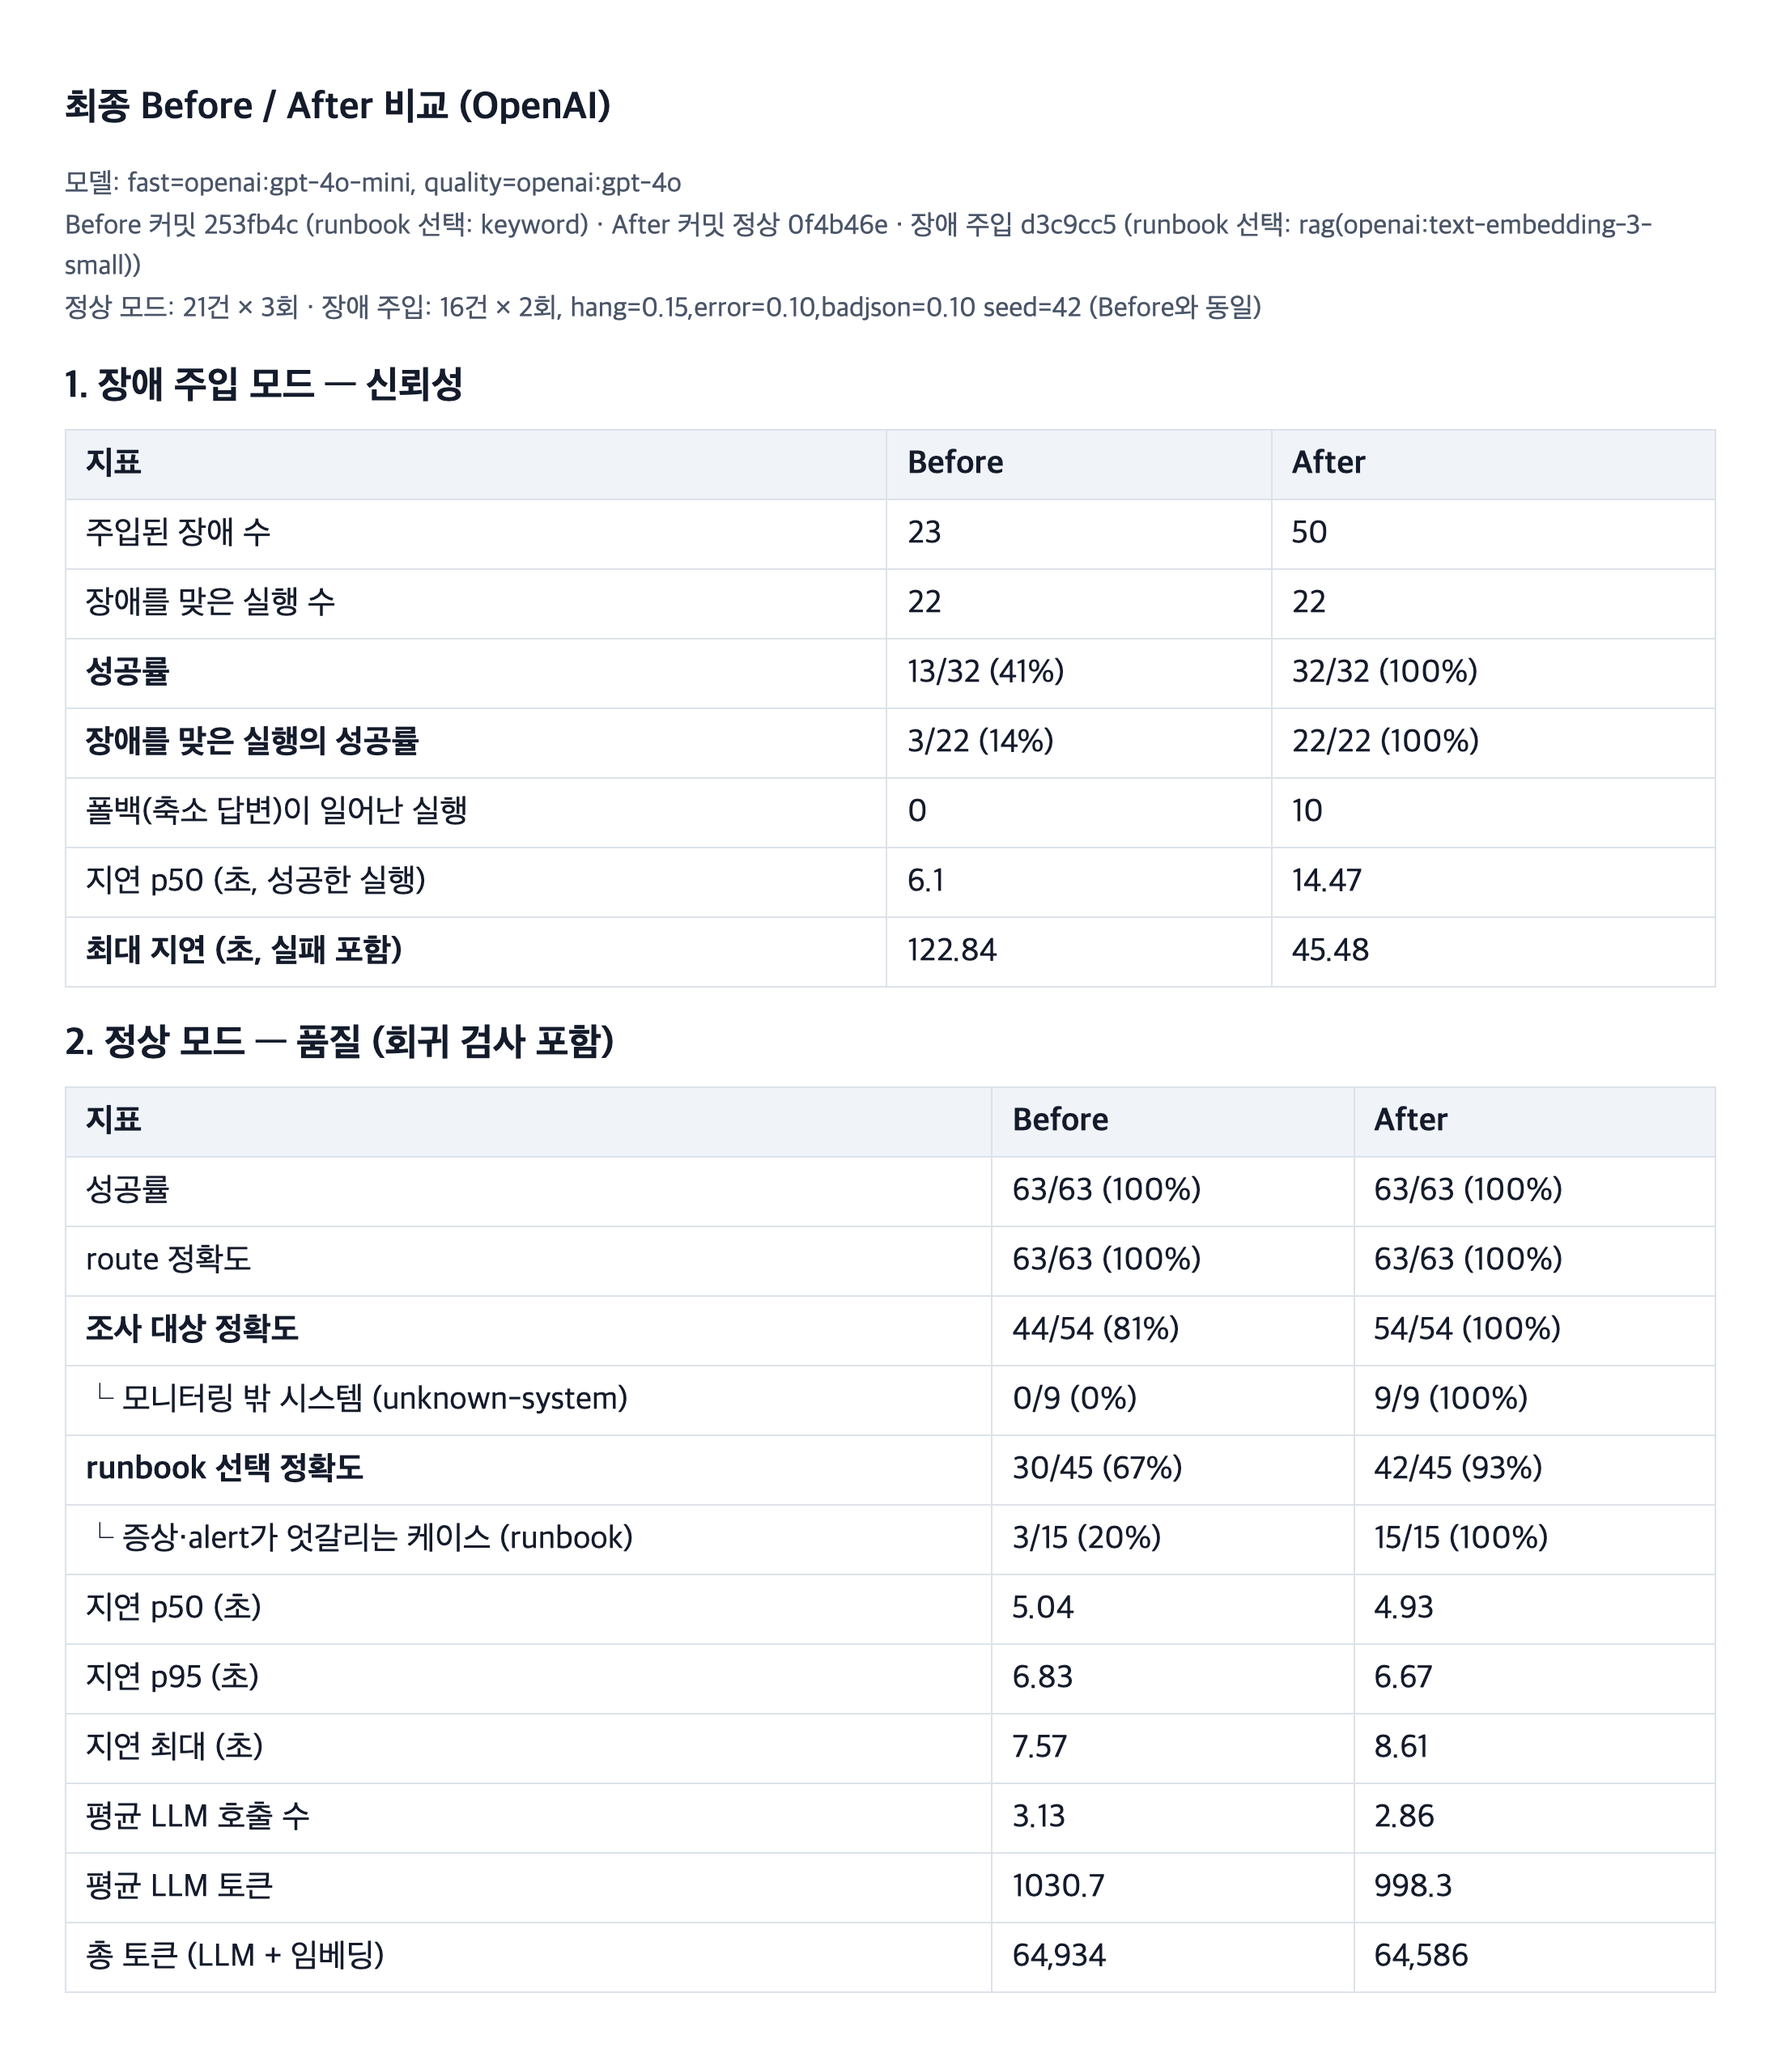
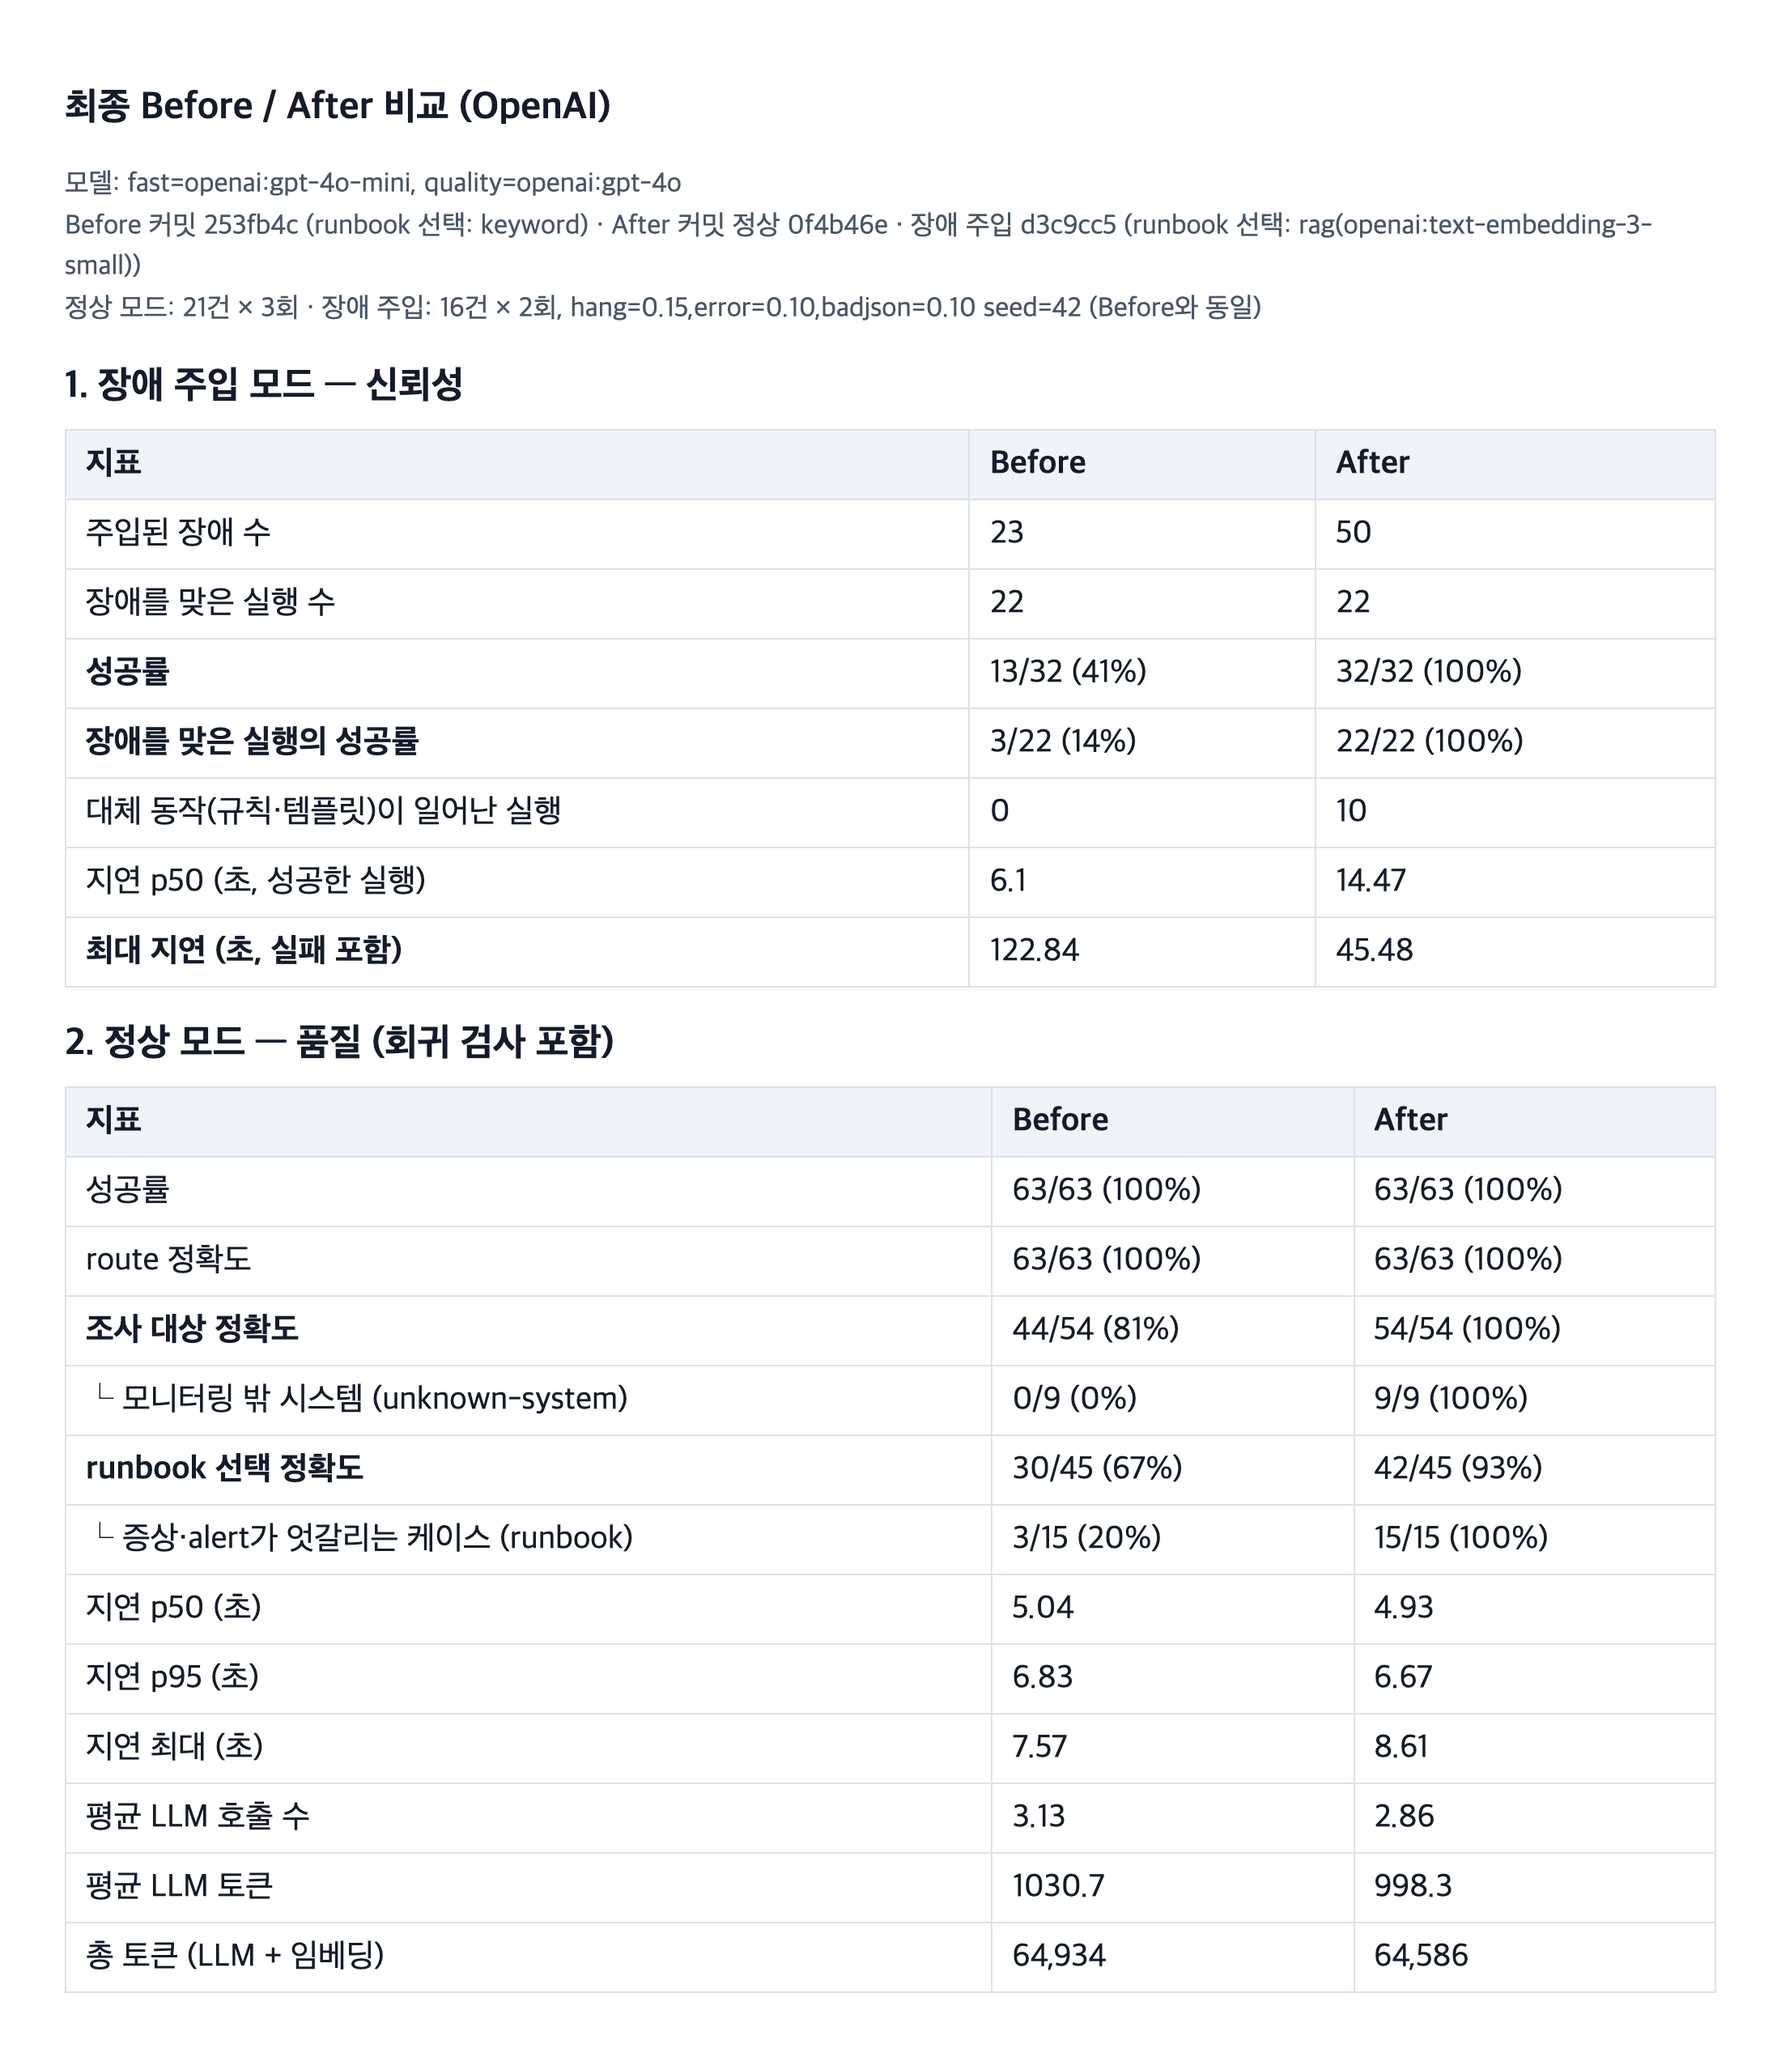
Describe the 10 chaos runs as rule-based stand-ins, not reduced answers
The 10 runs counted in the chaos comparison degraded at route or plan,
never at write, so the final answer was still written by the LLM.

diff --git a/eval/compare.py b/eval/compare.py
@@ -60,7 +60,7 @@ def main() -> None:
         _row("장애를 맞은 실행 수", "faulted_runs", bc, ac),
         _row("**성공률**", "success", bc, ac),
         _row("**장애를 맞은 실행의 성공률**", "success_when_faulted", bc, ac),
-        _row("폴백(축소 답변)이 일어난 실행", "degraded_runs", bc, ac),
+        _row("대체 동작(규칙·템플릿)이 일어난 실행", "degraded_runs", bc, ac),
         _row("지연 p50 (초, 성공한 실행)", "latency_p50", bc, ac),
         _row("**최대 지연 (초, 실패 포함)**", "latency_max_all", bc, ac),
         "", "## 2. 정상 모드 — 품질 (회귀 검사 포함)", "",

diff --git a/output/final_comparison.md b/output/final_comparison.md
@@ -12,7 +12,7 @@
 | 장애를 맞은 실행 수 | 22 | 22 |
 | **성공률** | 13/32 (41%) | 32/32 (100%) |
 | **장애를 맞은 실행의 성공률** | 3/22 (14%) | 22/22 (100%) |
-| 폴백(축소 답변)이 일어난 실행 | 0 | 10 |
+| 대체 동작(규칙·템플릿)이 일어난 실행 | 0 | 10 |
 | 지연 p50 (초, 성공한 실행) | 6.1 | 14.47 |
 | **최대 지연 (초, 실패 포함)** | 122.84 | 45.48 |
 
